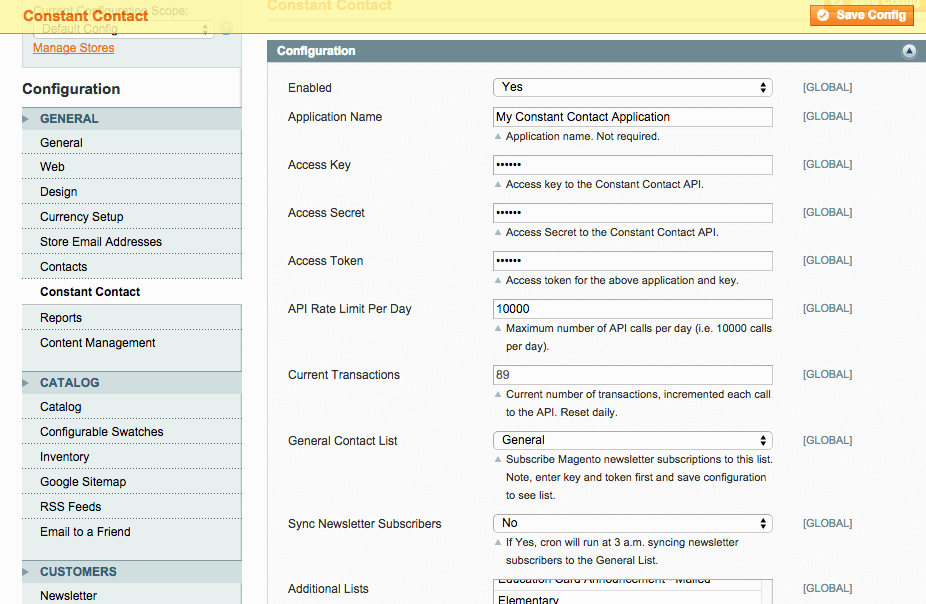
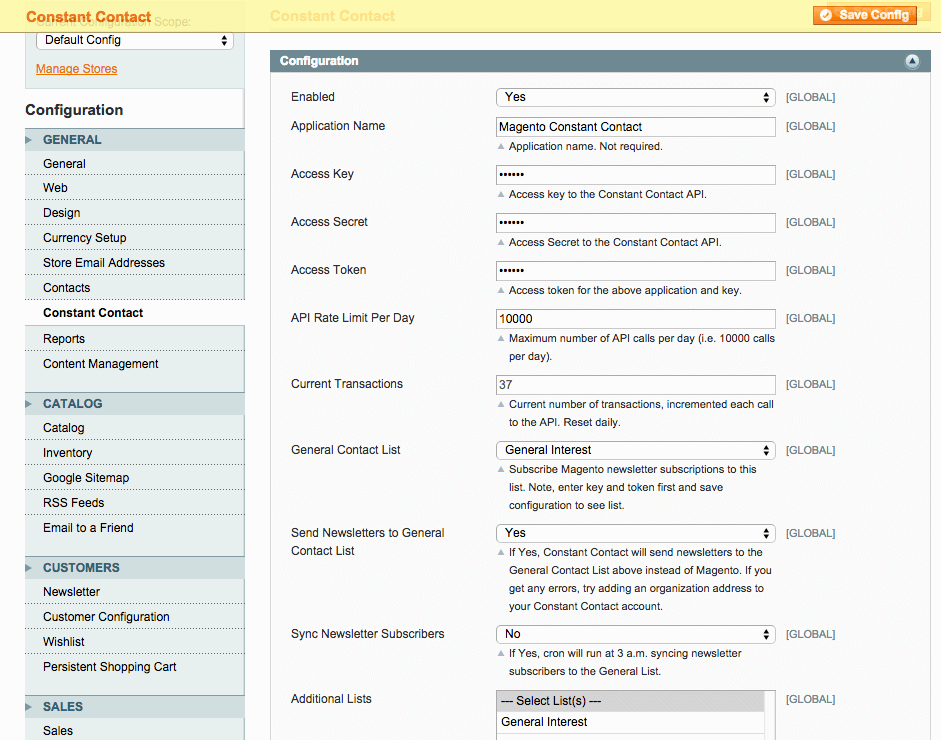
Added newsletter send to CC email campaign

diff --git a/app/code/community/Aydus/ConstantContact/Model/Constantcontact.php b/app/code/community/Aydus/ConstantContact/Model/Constantcontact.php
@@ -8,20 +8,15 @@
  * @author      Aydus <davidt@aydus.com>
  */
 
-if (file_exists('vendor'.DS.'autoload.php') && file_exists('vendor'.DS.'constantcontact')){
-    
-    require 'vendor'.DS.'autoload.php';
-    
-} else {
-    
-    require Mage::getBaseDir('lib').DS.'ConstantContact'.DS. 'vendor'.DS.'autoload.php';
-}
+require Mage::getBaseDir('lib').DS.'ConstantContact'.DS. 'vendor'.DS.'autoload.php';
 
 use Ctct\ConstantContact;
 use Ctct\Components\Contacts\Address;
 use Ctct\Components\Contacts\Contact;
 use Ctct\Components\Contacts\ContactList;
 use Ctct\Components\Contacts\EmailAddress;
+use Ctct\Components\EmailMarketing\Campaign;
+use Ctct\Components\EmailMarketing\Schedule;
 use Ctct\Exceptions\CtctException;
 
 class Aydus_ConstantContact_Model_Constantcontact extends Mage_Core_Model_Abstract
@@ -29,6 +24,7 @@ class Aydus_ConstantContact_Model_Constantcontact extends Mage_Core_Model_Abstra
     protected $_cc;
     protected $_allLists;
     protected $_lists;
+    protected $_campaigns;
 
     protected function _construct()
     {
@@ -169,7 +165,7 @@ class Aydus_ConstantContact_Model_Constantcontact extends Mage_Core_Model_Abstra
         
         return $this->_lists;
     }
-    
+        
     /**
      * Check if current customer is subscribed to list
      * 
@@ -351,6 +347,104 @@ class Aydus_ConstantContact_Model_Constantcontact extends Mage_Core_Model_Abstra
         }        
         
         return $contactId;
+    }
+    
+    /**
+     * Send Magento newsletter to the Constant Contact general list
+     */
+    public function sendNewsletters()
+    {
+        $helper = Mage::helper('aydus_constantcontact');
+        $sendNewsletters = $helper->getSendNewsletters();
+        
+        if ($sendNewsletters){
+            
+            try {
+                
+                $generalListId = $helper->getGeneralListId();
+                
+                $collection = Mage::getModel('newsletter/queue')->getCollection()
+                  ->addOnlyForSendingFilter()
+                  ->load();
+                                
+                foreach ($collection as $queue){
+                    
+                    if ($this->isReady()){
+                        
+                        $template = $queue->getTemplate();
+                        $templateId = $queue->getTemplateId();
+                        $newsletterName = $template->getTemplateCode();
+                        $data = $queue->getData();
+                        
+                        $found = false;
+                        $campaigns = $this->_cc->getEmailCampaigns(ACCESS_TOKEN);
+                        
+                        if (is_array($campaigns->results) && count($campaigns->results)>0){
+                            foreach ($campaigns->results as $campaign){
+                                if ($campaign && $campaign->name == $newsletterName){
+                                    $found = true;
+                                    break;
+                                }
+                            }
+                        }
+                        
+                        if (!$found && $this->isReady()){
+                        
+                            $campaign = new Campaign();
+                            $campaign->name = $newsletterName;
+                            $campaign->subject = @$data['newsletter_subject'];
+                            $campaign->from_name = @$data['newsletter_sender_name'];
+                            $campaign->from_email = @$data['newsletter_sender_email'];
+                            $campaign->greeting_string = @$data['newsletter_subject'];
+                            $campaign->reply_to_email = @$data['newsletter_sender_email'];
+                            $campaign->text_content = strip_tags(@$data['newsletter_text']);
+                            $campaign->email_content = '<html><body>'.@$data['newsletter_text'].'</body></html>';
+                            $campaign->email_content_format = 'HTML';
+                        
+                            $campaign->addList($generalListId);
+                        
+                            $campaign = $this->_cc->addEmailCampaign(ACCESS_TOKEN, $campaign);
+                        }
+                        
+                        $campaignId = @$campaign->id;
+                        
+                        if ($campaignId && $this->isReady()){
+                        
+                            $schedule = new Schedule();
+                        
+                            $now = time();
+                        
+                            $queueStartAt = strtotime(@$data['queue_start_at']);
+                        
+                            $oneHourFromNow = strtotime("+1 hour");
+                        
+                            $scheduledDateTime = (!$queueStartAt || $queueStartAt < $now) ? $oneHourFromNow : $queueStartAt;
+                        
+                            $schedule->scheduled_date = date('Y-m-d\TH:i:s\.000\Z', $scheduledDateTime);
+                        
+                            $schedule = $this->_cc->addEmailCampaignSchedule(ACCESS_TOKEN, $campaign, $schedule);
+                        
+                            if (@$schedule->id){
+                        
+                                $queue->setQueueStatus(Mage_Newsletter_Model_Queue::STATUS_SENT);
+                                $queue->setQueueFinishAt(date('Y-m-d H:i:s'));
+                                $queue->save();
+                        
+                            }
+                        
+                        } 
+                                               
+                    }
+                
+                }
+                            
+            } catch (CtctException $ex) {
+                
+                Mage::log($ex->getErrors(), null, 'aydus_constantcontact.log');
+            }               
+            
+        }
+        
     }
     
     /**

diff --git a/app/code/community/Aydus/ConstantContact/Model/Newsletter/Observer.php b/app/code/community/Aydus/ConstantContact/Model/Newsletter/Observer.php
@@ -1,0 +1,30 @@
+<?php
+
+/**
+ * ConstantContact newsletter observer override
+ *
+ * @category    Aydus
+ * @package     Aydus_ConstantContact
+ * @author      Aydus <davidt@aydus.com>
+ */
+
+class Aydus_ConstantContact_Model_Newsletter_Observer extends Mage_Newsletter_Model_Observer
+{
+    /**
+     *
+     * @param Mage_Cron_Model_Schedule $schedule
+     */
+    public function scheduledSend($schedule)
+    {
+        if (Mage::getStoreConfig('aydus_constantcontact/configuration/send_newsletters')){
+            
+            return Mage::getSingleton('aydus_constantcontact/constantcontact')->sendNewsletters();
+            
+        } else {
+            
+            parent::scheduledSend($schedule);
+        }
+
+    }
+    
+}

diff --git a/app/code/community/Aydus/ConstantContact/Helper/Data.php b/app/code/community/Aydus/ConstantContact/Helper/Data.php
@@ -39,6 +39,13 @@ class Aydus_ConstantContact_Helper_Data extends Mage_Core_Helper_Abstract
     
         return $rateLimitPerDay;
     }
+
+    public function getSendNewsletters()
+    {
+        $sendNewsletters = (int)Mage::getStoreConfig('aydus_constantcontact/configuration/send_newsletters');
+    
+        return $sendNewsletters;
+    }
     
     /**
      * The main list id

diff --git a/README.md b/README.md
@@ -1,12 +1,14 @@
 Constant Contact
 ===============
-Add Magento users to Constant Contact contacts and lists.
+Add Magento users to Constant Contact contacts and lists and send 
+Magento newsletters as CC campaigns.
 
 Description
 -----------
-Add Magento users to Constant Contact contacts and lists. Users
-can subscribe to lists by subscribing to the Magento newsletter. 
-Additionally, by submitting a form on this page:
+Add Magento users to Constant Contact contacts and lists and send 
+Magento newsletters as email campaigns. Users can subscribe to 
+lists by subscribing to the Magento newsletter. Additionally, by 
+submitting a form on this page:
 
 /constantcontact/form/subscribe
 
@@ -29,3 +31,4 @@ In the admin under System -> Configuration -> General -> Constant Contact,
 configure the extension:
 
 <img src="md/configuration.png" />
+
